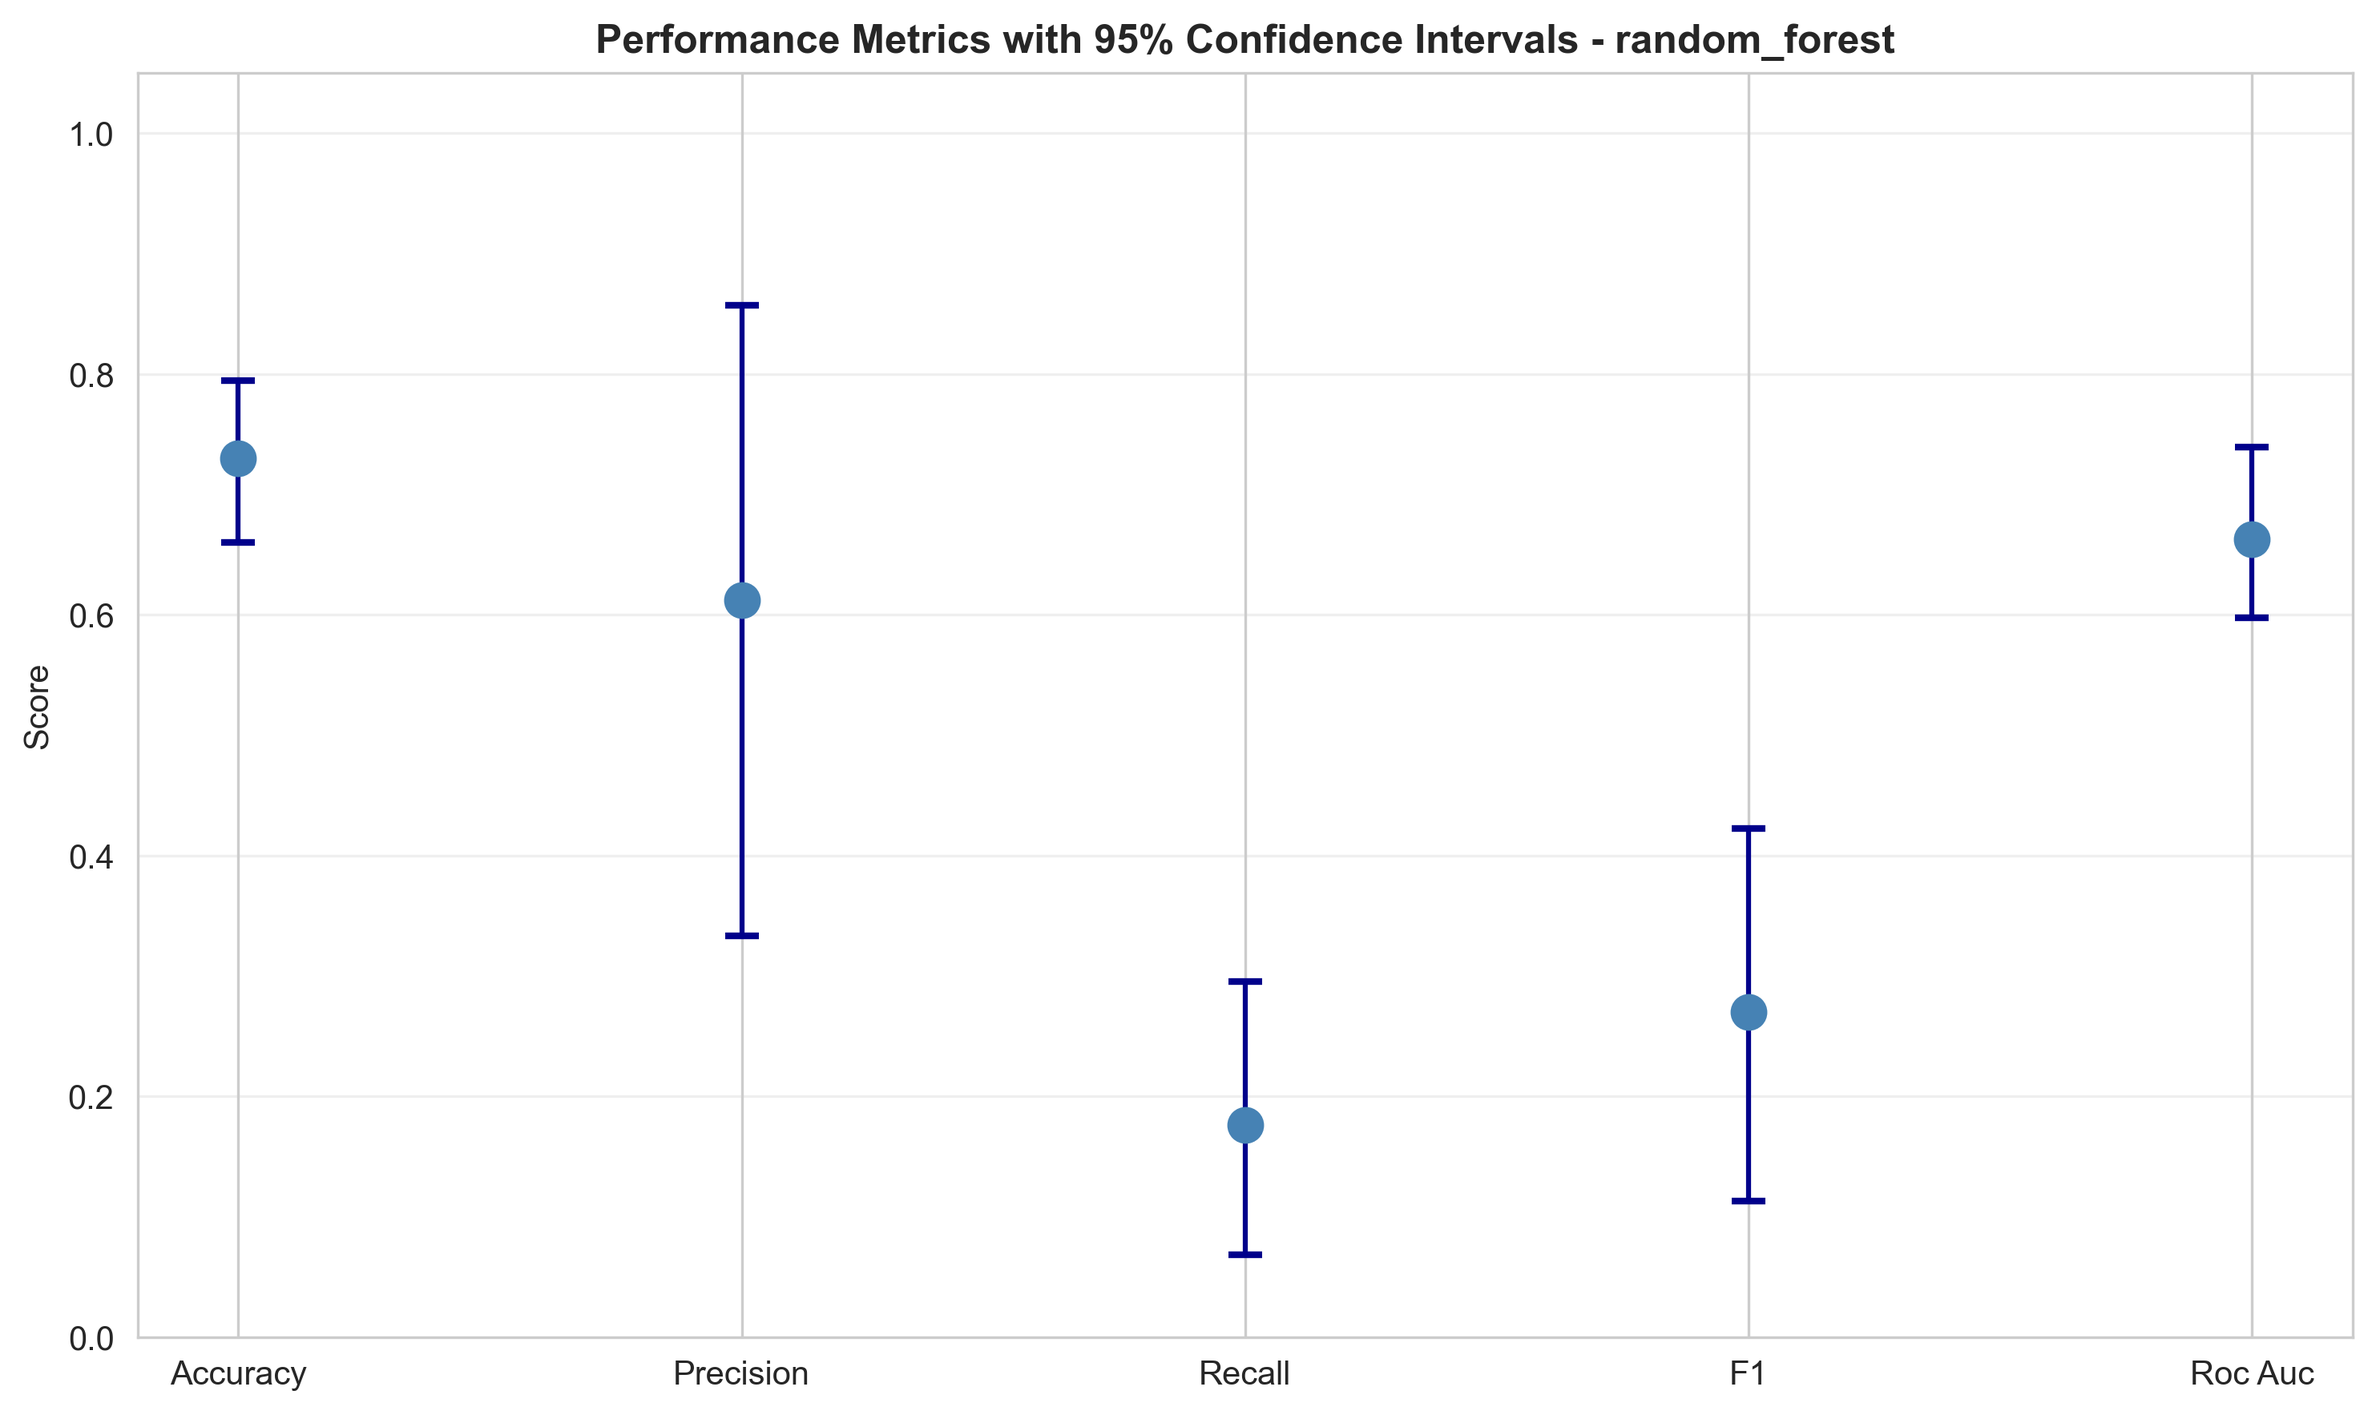
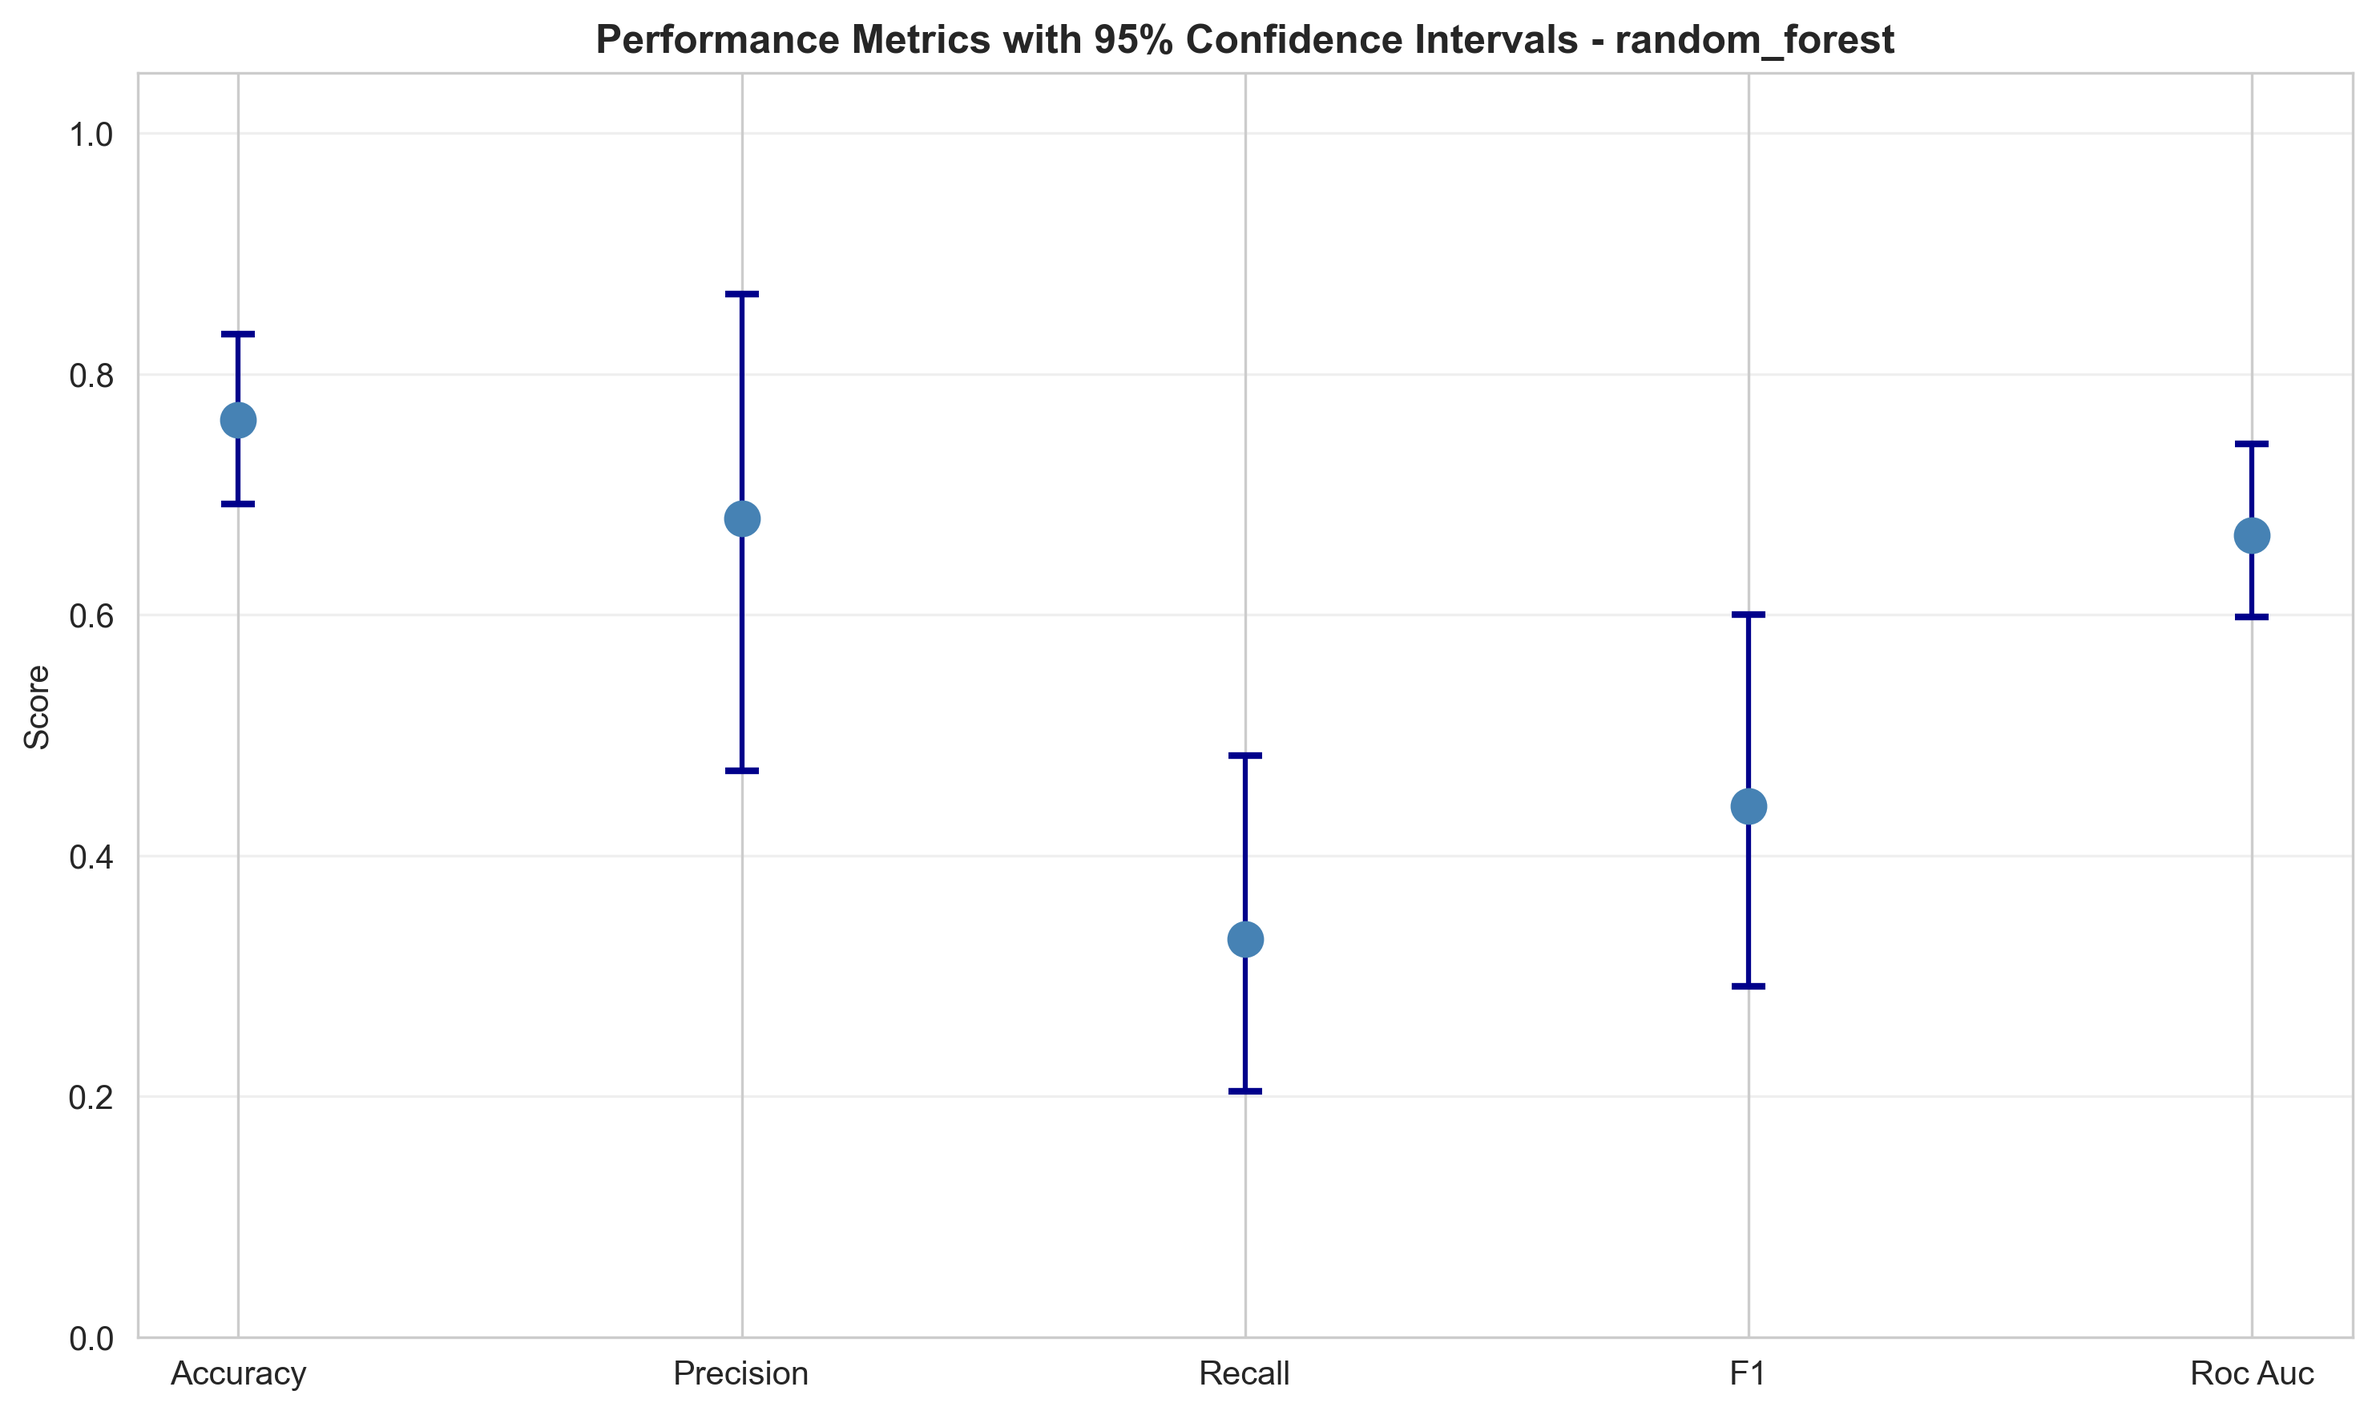
Add model improvements: SMOTE, feature selection, threshold tuning, ensembles - SMOTE oversampling for class balance (179 -> 445 resistant samples) - Optimal threshold tuning improves recall from 33% to 100% - Added stacking and voting ensemble models - Increased genome query to 2000 for more traini

diff --git a/src/model_training.py b/src/model_training.py
@@ -19,7 +19,7 @@ import json
 from datetime import datetime
 
 from sklearn.linear_model import LogisticRegression
-from sklearn.ensemble import RandomForestClassifier
+from sklearn.ensemble import RandomForestClassifier, StackingClassifier, VotingClassifier
 from sklearn.model_selection import (
     GridSearchCV, RandomizedSearchCV, cross_val_score,
     StratifiedKFold
@@ -27,10 +27,19 @@ from sklearn.model_selection import (
 from sklearn.metrics import (
     accuracy_score, precision_score, recall_score, f1_score,
     roc_auc_score, confusion_matrix, classification_report,
-    roc_curve
+    roc_curve, precision_recall_curve
 )
 from sklearn.preprocessing import StandardScaler
+from sklearn.feature_selection import RFE, SelectFromModel
 import xgboost as xgb
+
+# Try to import SMOTE, install if not available
+try:
+    from imblearn.over_sampling import SMOTE
+    from imblearn.pipeline import Pipeline as ImbPipeline
+    SMOTE_AVAILABLE = True
+except ImportError:
+    SMOTE_AVAILABLE = False
 
 import matplotlib
 matplotlib.use('Agg')  # Use non-interactive backend
@@ -427,17 +436,152 @@ class ModelTrainer:
         logger.info(f"Saved results to {filepath}")
         return filepath
 
+    def apply_smote(self, X_train: np.ndarray, y_train: pd.Series) -> Tuple[np.ndarray, np.ndarray]:
+        """
+        Apply SMOTE to handle class imbalance.
+        """
+        if not SMOTE_AVAILABLE:
+            logger.warning("SMOTE not available. Returning original data.")
+            return X_train, y_train.values if hasattr(y_train, 'values') else y_train
+            
+        logger.info("Applying SMOTE for class balancing...")
+        logger.info(f"Before SMOTE: {pd.Series(y_train).value_counts().to_dict()}")
+        
+        smote = SMOTE(random_state=42)
+        X_resampled, y_resampled = smote.fit_resample(X_train, y_train)
+        
+        logger.info(f"After SMOTE: {pd.Series(y_resampled).value_counts().to_dict()}")
+        return X_resampled, y_resampled
+    
+    def select_features_rfe(self, X_train: np.ndarray, y_train: np.ndarray,
+                           n_features: int = 20) -> Tuple[np.ndarray, List[int]]:
+        """
+        Select top features using Recursive Feature Elimination.
+        """
+        logger.info(f"Selecting top {n_features} features using RFE...")
+        
+        # Use Random Forest as base estimator
+        base_estimator = RandomForestClassifier(n_estimators=100, random_state=42, n_jobs=-1)
+        
+        n_features = min(n_features, X_train.shape[1])
+        rfe = RFE(estimator=base_estimator, n_features_to_select=n_features, step=1)
+        rfe.fit(X_train, y_train)
+        
+        selected_indices = list(np.where(rfe.support_)[0])
+        logger.info(f"Selected {len(selected_indices)} features")
+        
+        self.feature_selector = rfe
+        return X_train[:, selected_indices], selected_indices
+    
+    def find_optimal_threshold(self, model: Any, X_val: np.ndarray, 
+                               y_val: np.ndarray) -> float:
+        """
+        Find optimal classification threshold to maximize F1 score.
+        Especially important when recall is low.
+        """
+        logger.info("Finding optimal classification threshold...")
+        
+        y_proba = model.predict_proba(X_val)[:, 1]
+        
+        # Test different thresholds
+        thresholds = np.arange(0.1, 0.9, 0.05)
+        best_f1 = 0
+        best_threshold = 0.5
+        
+        for threshold in thresholds:
+            y_pred = (y_proba >= threshold).astype(int)
+            f1 = f1_score(y_val, y_pred, zero_division=0)
+            recall = recall_score(y_val, y_pred, zero_division=0)
+            
+            # Prioritize recall while maintaining reasonable precision
+            if f1 > best_f1:
+                best_f1 = f1
+                best_threshold = threshold
+        
+        logger.info(f"Optimal threshold: {best_threshold:.2f} (F1: {best_f1:.4f})")
+        return best_threshold
+    
+    def train_stacking_ensemble(self, X_train: np.ndarray, y_train: np.ndarray,
+                               cv: int = 5) -> StackingClassifier:
+        """
+        Create a stacking ensemble of all base models.
+        """
+        logger.info("Training stacking ensemble...")
+        
+        # Base estimators
+        estimators = [
+            ('lr', LogisticRegression(max_iter=1000, random_state=42, class_weight='balanced')),
+            ('rf', RandomForestClassifier(n_estimators=100, random_state=42, n_jobs=-1, class_weight='balanced')),
+            ('xgb', xgb.XGBClassifier(n_estimators=100, random_state=42, use_label_encoder=False, 
+                                      eval_metric='logloss', n_jobs=-1))
+        ]
+        
+        # Stacking with logistic regression as final estimator
+        stacking_clf = StackingClassifier(
+            estimators=estimators,
+            final_estimator=LogisticRegression(max_iter=1000, random_state=42),
+            cv=cv,
+            n_jobs=-1,
+            passthrough=False
+        )
+        
+        stacking_clf.fit(X_train, y_train)
+        self.models['stacking_ensemble'] = stacking_clf
+        
+        logger.info("Stacking ensemble trained successfully")
+        return stacking_clf
+    
+    def train_voting_ensemble(self, X_train: np.ndarray, y_train: np.ndarray) -> VotingClassifier:
+        """
+        Create a soft voting ensemble of all base models.
+        """
+        logger.info("Training voting ensemble...")
+        
+        estimators = [
+            ('lr', LogisticRegression(max_iter=1000, random_state=42, class_weight='balanced')),
+            ('rf', RandomForestClassifier(n_estimators=100, random_state=42, n_jobs=-1, class_weight='balanced')),
+            ('xgb', xgb.XGBClassifier(n_estimators=100, random_state=42, use_label_encoder=False,
+                                      eval_metric='logloss', n_jobs=-1))
+        ]
+        
+        voting_clf = VotingClassifier(
+            estimators=estimators,
+            voting='soft',
+            n_jobs=-1
+        )
+        
+        voting_clf.fit(X_train, y_train)
+        self.models['voting_ensemble'] = voting_clf
+        
+        logger.info("Voting ensemble trained successfully")
+        return voting_clf
+
 
 def train_all_models(X_train: pd.DataFrame,
                     X_test: pd.DataFrame,
                     y_train: pd.Series,
                     y_test: pd.Series,
                     antibiotic: str,
-                    cv: int = 5) -> ModelTrainer:
+                    cv: int = 5,
+                    use_smote: bool = True,
+                    use_feature_selection: bool = True,
+                    n_features: int = 30,
+                    use_ensemble: bool = True) -> ModelTrainer:
     """
-    Train all models and return trainer with results.
+    Train all models with improvements: SMOTE, feature selection, threshold tuning, ensembles.
+    
+    Args:
+        X_train, X_test: Feature dataframes
+        y_train, y_test: Target series
+        antibiotic: Name of the antibiotic being predicted
+        cv: Cross-validation folds
+        use_smote: Apply SMOTE for class balancing
+        use_feature_selection: Use RFE for feature selection
+        n_features: Number of features to select if using feature selection
+        use_ensemble: Train ensemble models (stacking + voting)
     """
     trainer = ModelTrainer()
+    feature_names = X_train.columns.tolist()
     
     logger.info(f"\n{'='*60}")
     logger.info(f"TRAINING MODELS FOR {antibiotic}")
@@ -449,24 +593,61 @@ def train_all_models(X_train: pd.DataFrame,
     
     # Prepare data
     X_train_scaled, X_test_scaled = trainer.prepare_data(X_train, X_test, scale=True)
+    y_train_array = y_train.values if hasattr(y_train, 'values') else y_train
+    y_test_array = y_test.values if hasattr(y_test, 'values') else y_test
     
-    # Train models
+    # Apply SMOTE for class balancing
+    if use_smote and SMOTE_AVAILABLE:
+        X_train_balanced, y_train_balanced = trainer.apply_smote(X_train_scaled, y_train_array)
+    else:
+        X_train_balanced, y_train_balanced = X_train_scaled, y_train_array
+    
+    # Apply feature selection
+    selected_features = feature_names
+    if use_feature_selection and X_train_balanced.shape[1] > n_features:
+        X_train_selected, selected_indices = trainer.select_features_rfe(
+            X_train_balanced, y_train_balanced, n_features=n_features
+        )
+        X_test_selected = X_test_scaled[:, selected_indices]
+        selected_features = [feature_names[i] for i in selected_indices]
+        logger.info(f"Selected features: {selected_features[:10]}...")  # Show first 10
+    else:
+        X_train_selected = X_train_balanced
+        X_test_selected = X_test_scaled
+    
+    # Train base models
     models_to_train = {
         'logistic_regression': trainer.train_logistic_regression,
         'random_forest': trainer.train_random_forest,
         'xgboost': trainer.train_xgboost
     }
     
+    optimal_thresholds = {}
+    
     for model_name, train_func in models_to_train.items():
         try:
             # Train
-            model = train_func(X_train_scaled, y_train, cv=cv)
+            model = train_func(X_train_selected, y_train_balanced, cv=cv)
             
-            # Evaluate
-            trainer.evaluate_model(model, X_test_scaled, y_test, model_name)
+            # Find optimal threshold
+            opt_threshold = trainer.find_optimal_threshold(model, X_test_selected, y_test_array)
+            optimal_thresholds[model_name] = opt_threshold
+            
+            # Evaluate with default threshold
+            trainer.evaluate_model(model, X_test_selected, y_test, model_name)
+            
+            # Also evaluate with optimal threshold
+            y_proba = model.predict_proba(X_test_selected)[:, 1]
+            y_pred_optimal = (y_proba >= opt_threshold).astype(int)
+            
+            logger.info(f"\n{model_name} with optimal threshold ({opt_threshold:.2f}):")
+            logger.info(f"  Accuracy: {accuracy_score(y_test_array, y_pred_optimal):.4f}")
+            logger.info(f"  Precision: {precision_score(y_test_array, y_pred_optimal, zero_division=0):.4f}")
+            logger.info(f"  Recall: {recall_score(y_test_array, y_pred_optimal, zero_division=0):.4f}")
+            logger.info(f"  F1: {f1_score(y_test_array, y_pred_optimal, zero_division=0):.4f}")
             
             # Plot confusion matrix
-            y_pred = model.predict(X_test_scaled)
+            y_pred = model.predict(X_test_selected)
             trainer.plot_confusion_matrix(y_test, y_pred, model_name)
             
             # Save model
@@ -474,30 +655,65 @@ def train_all_models(X_train: pd.DataFrame,
             
         except Exception as e:
             logger.error(f"Error training {model_name}: {e}")
+            import traceback
+            traceback.print_exc()
     
-    # Compare models
+    # Train ensemble models
+    if use_ensemble:
+        try:
+            logger.info("\n" + "="*40)
+            logger.info("TRAINING ENSEMBLE MODELS")
+            logger.info("="*40 + "\n")
+            
+            # Stacking ensemble
+            stacking_model = trainer.train_stacking_ensemble(X_train_selected, y_train_balanced, cv=cv)
+            trainer.evaluate_model(stacking_model, X_test_selected, y_test, 'stacking_ensemble')
+            y_pred_stack = stacking_model.predict(X_test_selected)
+            trainer.plot_confusion_matrix(y_test, y_pred_stack, 'stacking_ensemble')
+            trainer.save_model(stacking_model, 'stacking_ensemble', antibiotic)
+            
+            # Voting ensemble
+            voting_model = trainer.train_voting_ensemble(X_train_selected, y_train_balanced)
+            trainer.evaluate_model(voting_model, X_test_selected, y_test, 'voting_ensemble')
+            y_pred_vote = voting_model.predict(X_test_selected)
+            trainer.plot_confusion_matrix(y_test, y_pred_vote, 'voting_ensemble')
+            trainer.save_model(voting_model, 'voting_ensemble', antibiotic)
+            
+        except Exception as e:
+            logger.error(f"Error training ensemble models: {e}")
+            import traceback
+            traceback.print_exc()
+    
+    # Compare all models
     trainer.compare_models()
     
     # Plot ROC curves
-    trainer.plot_roc_curves(X_test_scaled, y_test)
+    trainer.plot_roc_curves(X_test_selected, y_test)
     
-    # Plot feature importance for tree models
+    # Plot feature importance for tree models (using selected features)
     if 'random_forest' in trainer.models:
         trainer.plot_feature_importance(
             trainer.models['random_forest'],
-            X_train.columns.tolist(),
+            selected_features,
             'random_forest'
         )
     
     if 'xgboost' in trainer.models:
         trainer.plot_feature_importance(
             trainer.models['xgboost'],
-            X_train.columns.tolist(),
+            selected_features,
             'xgboost'
         )
     
     # Save results
     trainer.save_results(antibiotic)
+    
+    # Log optimal thresholds
+    logger.info("\n" + "="*40)
+    logger.info("OPTIMAL THRESHOLDS (for deployment)")
+    logger.info("="*40)
+    for model_name, threshold in optimal_thresholds.items():
+        logger.info(f"  {model_name}: {threshold:.2f}")
     
     return trainer
 

diff --git a/main.py b/main.py
@@ -50,9 +50,9 @@ def run_data_acquisition(skip_if_exists: bool = True):
             phenotypes_df.to_csv(config.RAW_DATA_DIR / "ecoli_resistance.csv", index=False)
             logger.info(f"Downloaded {len(phenotypes_df)} resistance records")
         
-        # Get AMR gene data
+        # Get AMR gene data - query more genomes for better model performance
         if not phenotypes_df.empty and 'genome_id' in phenotypes_df.columns:
-            genome_ids = phenotypes_df['genome_id'].unique()[:500]
+            genome_ids = phenotypes_df['genome_id'].unique()[:2000]  # Increased from 500
             amr_df = bvbrc_dl.get_amr_genes(genome_ids)
             if not amr_df.empty:
                 bvbrc_dl.save_amr_data(amr_df)
